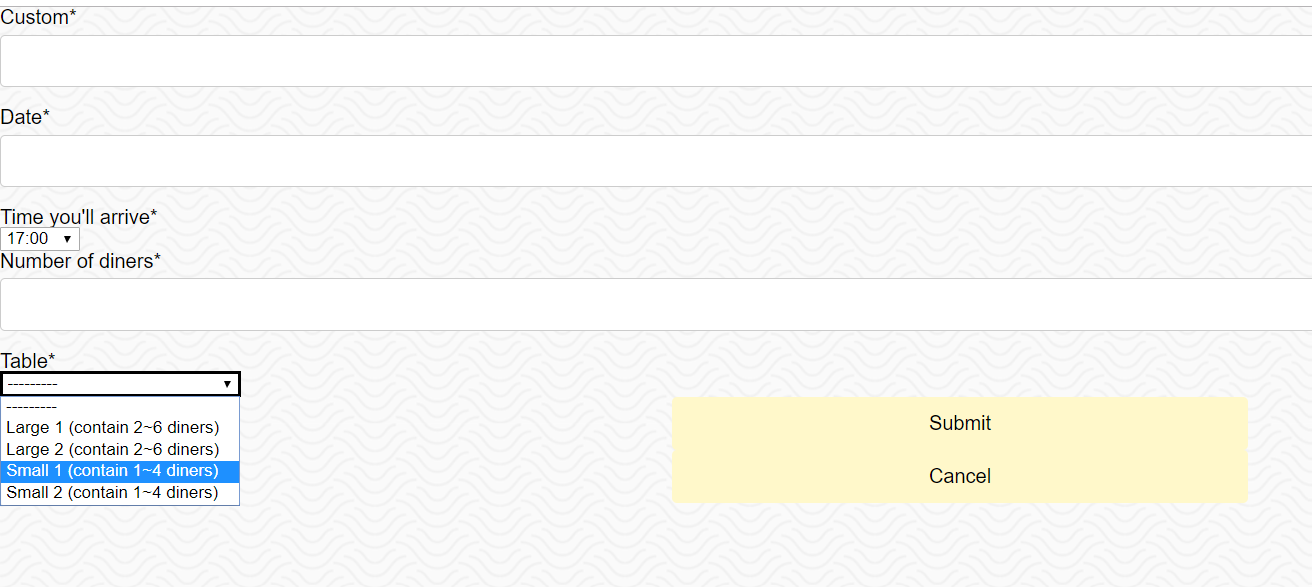
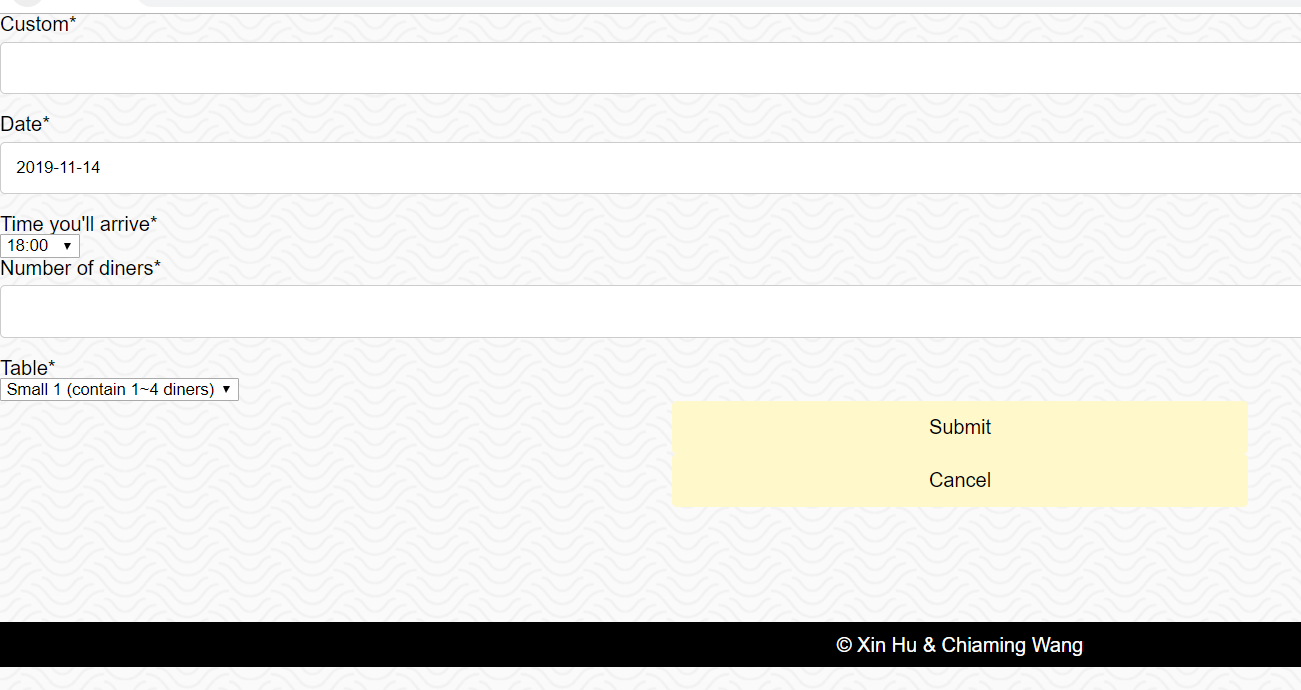
auto_fillin

diff --git a/evergreen/reserve/templates/reserves/reserve_list.html b/evergreen/reserve/templates/reserves/reserve_list.html
@@ -23,7 +23,7 @@
   {% for reserve in reserve_list %}
     {% if reserve.owner == user %}
     <li>
-        <a href="{% url 'reserves:reserve_detail'  reserve.id %}">{{ reserve.date }} {{ reserve.hour }}:00</a>
+        {{ reserve.date }} {{ reserve.hour }}:00 @ Table {{reserve.table.category.name}}_{{reserve.table.name}}
         (<a href="{% url 'reserves:reserve_delete' reserve.id %}">Delete</a>)
         </p>
         {% endif %}
@@ -49,10 +49,14 @@
 {% else %}
 <b>Avalible Tables</b>
 <p>
-{% for tb, val in tb_list %}
-{{tb.category}}_{{tb.name}}: {{val}}
+<form action="{% url 'reserves:reserve_create' %}" method="get">
+<input type="hidden" name="d" value={{tm}} />
+{% for tb, id, val in tb_list %}
+<p>
+{{tb}}: <button name="n" type="submit" value={{id}}>Book {{tb}}</button>
 <p>
 {% endfor %}
+</form>
 {% endif %}
 
 </p>

diff --git a/evergreen/reserve/views.py b/evergreen/reserve/views.py
@@ -16,35 +16,39 @@ class ReserveListView(LoginRequiredMixin, View) :
         rl = Reserve.objects.all();
         tl = [i for i in range(11, 21)]
         tm = request.GET.get('d')
+        table_name = request.GET.get('n')
         err_msg = ""
         tb_list = []
-        val_list = []
+        tm_str = ""
         if tm:
-            #try:
-            now = datetime.now()
-            tm = datetime.strptime(tm, "%Y/%m/%d %H:%M")
-            if tm>now:
-                print(tm.strftime("%Y-%m-%d"))
-                object_list = Reserve.objects.filter(
-                    Q(date__icontains=tm.strftime("%Y-%m-%d")) & Q(hour__icontains=tm.hour)
-                )
-
-                tb_dict = {}
-                for tb in Table.objects.all():
-                    tb_dict[tb] = True
-                for res in Reserve.objects.all():
-                    tb_dict[res.table] = False
-                tb_list = list(tb_dict.items())
-                val_list = list(tb_dict.values())
+            if table_name:
+                print(table_name)
+                return render(request, 'reserves/reserve_form.html', {})
             else:
-                err_msg="No past time!"
-            '''
-            except: 
-                err_msg="Illegal input!"
-            '''
+                now = datetime.now()
+                tm = datetime.strptime(tm, "%Y/%m/%d %H:%M")
+                #try:
+                if tm>now:
+                    object_list = Reserve.objects.filter(
+                        Q(date__icontains=tm.strftime("%Y-%m-%d")) & Q(hour__icontains=tm.hour)
+                    )
+
+                    tb_dict = {}
+                    for tb in Table.objects.all():
+                        tb_dict[tb] = True
+                    for res in Reserve.objects.all():
+                        tb_dict[res.table] = False
+                    for tb, val in tb_dict.items():
+                        tb_list.append(("%s_%s"%(tb.category.name, tb.name), tb.id, val))
+                    tm_str = tm.strftime("%Y-%m-%d-%H")
+                else:
+                    err_msg="No past time!"
+                #except: 
+                #    err_msg="Illegal input!"
         else: err_msg = "Select your prefered time."
 
-        ctx = {'reserve_list': rl, 'err_msg': err_msg, 'tb_list': tb_list, 'val_list': val_list, 'time_list':tl};
+        ctx = {'reserve_list': rl, 'err_msg': err_msg, 'tb_list': tb_list, 
+               'time_list':tl, 'tm':tm_str,};
         return render(request, 'reserves/reserve_list.html', ctx)
 
 class ReserveDetailView(OwnerDetailView):
@@ -55,6 +59,22 @@ class ReserveCreateView(OwnerCreateView):
     model = Reserve
     form_class = CreateForm
     template_name = "reserves/reserve_form.html"
+
+    def form_valid(self, form):
+        print('form_valid called')
+        print(self.request.user)
+        return super(ReserveCreateView, self).form_valid(form)
+
+    def get_initial(self, *args, **kwargs):
+        initial = super(ReserveCreateView, self).get_initial(**kwargs)
+        #['custom', 'date', 'hour', 'person', 'table']
+        dh = datetime.strptime(self.request.GET.get('d'), "%Y-%m-%d-%H")
+        name = self.request.GET.get('n')
+        print("name",name)
+        initial['table'] = Table.objects.get(id=self.request.GET.get('n'))
+        initial['date'] = dh.strftime("%Y-%m-%d")
+        initial['hour'] = dh.hour
+        return initial
 
 class ReserveUpdateView(OwnerUpdateView):
     model = Reserve

diff --git a/evergreen/reserve/forms.py b/evergreen/reserve/forms.py
@@ -4,23 +4,16 @@ from django import forms
 from .models import Reserve
 
 class CreateForm(forms.ModelForm):
-    def clean_file(self,form):
-        if person<table.min_person:
-            raise ValidationError(_('Invalid value'), code='invalid')
-            #raise ValidationError("Table %02d should have at least %d diners"%(table.number, table.min_person))
-        elif person>table.max_person:
-            raise ValidationError("Table %02d con only contain %d diners"%(table.number, table.max_person))
-
     def clean(self):
-        cleaned_data = super().clean()
+        cleaned_data = super(CreateForm, self).clean()
         table = cleaned_data.get("table")
         person = cleaned_data.get("person")
 
-        if person>table.max_person:
-            raise forms.ValidationError("Table %s con only contain %d diners"%(table.name, table.max_person))
-        if person<table.min_person:
-            raise forms.ValidationError("Table %02d should have at least %d diners"%(table.name, table.min_person))
+        if person>table.category.max_person:
+            raise forms.ValidationError("Table %s con only contain %d diners"%(table, table.category.max_person))
+        if person<table.category.min_person:
+            raise forms.ValidationError("Table %s should have at least %d diners"%(table, table.category.min_person))
 
     class Meta:
         model = Reserve
-        fields = ['custom', 'date', 'hour', 'person', 'table']
+        fields = ['custom', 'date', 'hour', 'person', 'table']#['custom', 'person']#

diff --git a/evergreen/reserve/owner.py b/evergreen/reserve/owner.py
@@ -21,7 +21,6 @@ class OwnerCreateView(LoginRequiredMixin, CreateView):
     """
 
     def form_valid(self, form):
-        print('form_valid called')
         object = form.save(commit=False)
         object.owner = self.request.user
         object.save()
